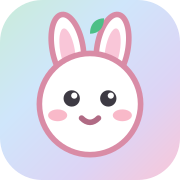
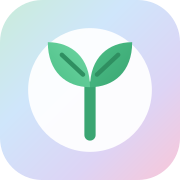
Add files via upload

Changed region(s): [[0.1389, 0.0556, 0.8611, 0.8889]]

diff --git a/app.js b/app.js
@@ -809,6 +809,14 @@ const sleep = ms => new Promise(res => setTimeout(res, ms * speedMult));
 
 const CHARGE_MS = { common: 420, rare: 620, epic: 1000, legendary: 1500, mythic: 2100, celestial: 2400, eternal: 3000 };
 
+function confettiHTML() {
+  return `<span class="confetti">${Array.from({ length: 16 }, () => {
+    const a = Math.random() * Math.PI * 2;
+    const d = 70 + Math.random() * 90;
+    return `<i style="--c:${pick(BURST_COLORS)};--dx:${(Math.cos(a) * d).toFixed(0)}px;--dy:${(Math.sin(a) * d).toFixed(0)}px"></i>`;
+  }).join('')}</span>`;
+}
+
 function buyPack(key) {
   const pack = PACKS[key];
   PaySheet.open(

diff --git a/README.md b/README.md
@@ -127,7 +127,7 @@ block at the top of `app.js`.
   black-and-gold reveal sequence, and a toast announcing the 1/1. Odds under 1%
   display as "1 in N" in the odds table. Bots never list either tier — packs are
   the only source.
-- **Favicon**: kawaii bunny + sprout on a pastel gradient tile (favicon.svg,
+- **Favicon**: the MINT sprig — green two-leaf sprout in a white emblem circle on the pastel gradient tile (matches the header logo and pack seal).
   favicon-32.png, apple-touch-icon.png).
 
 ## v7 — auto-open hype & branding
